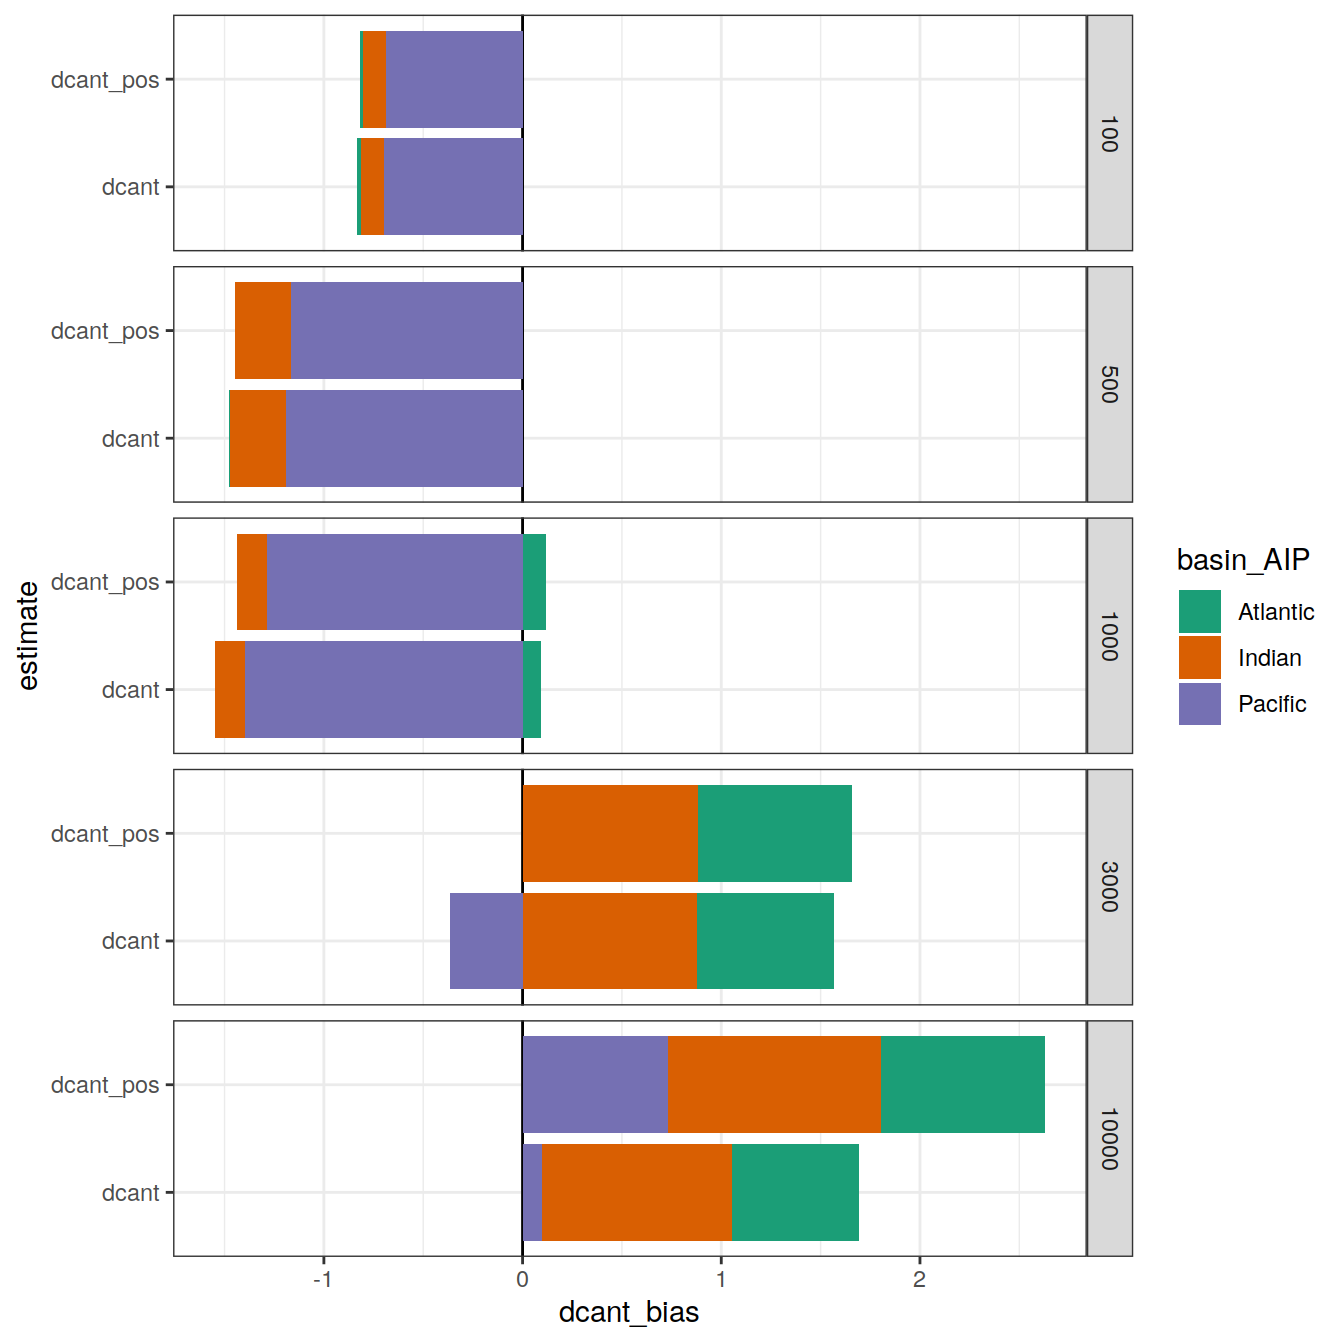
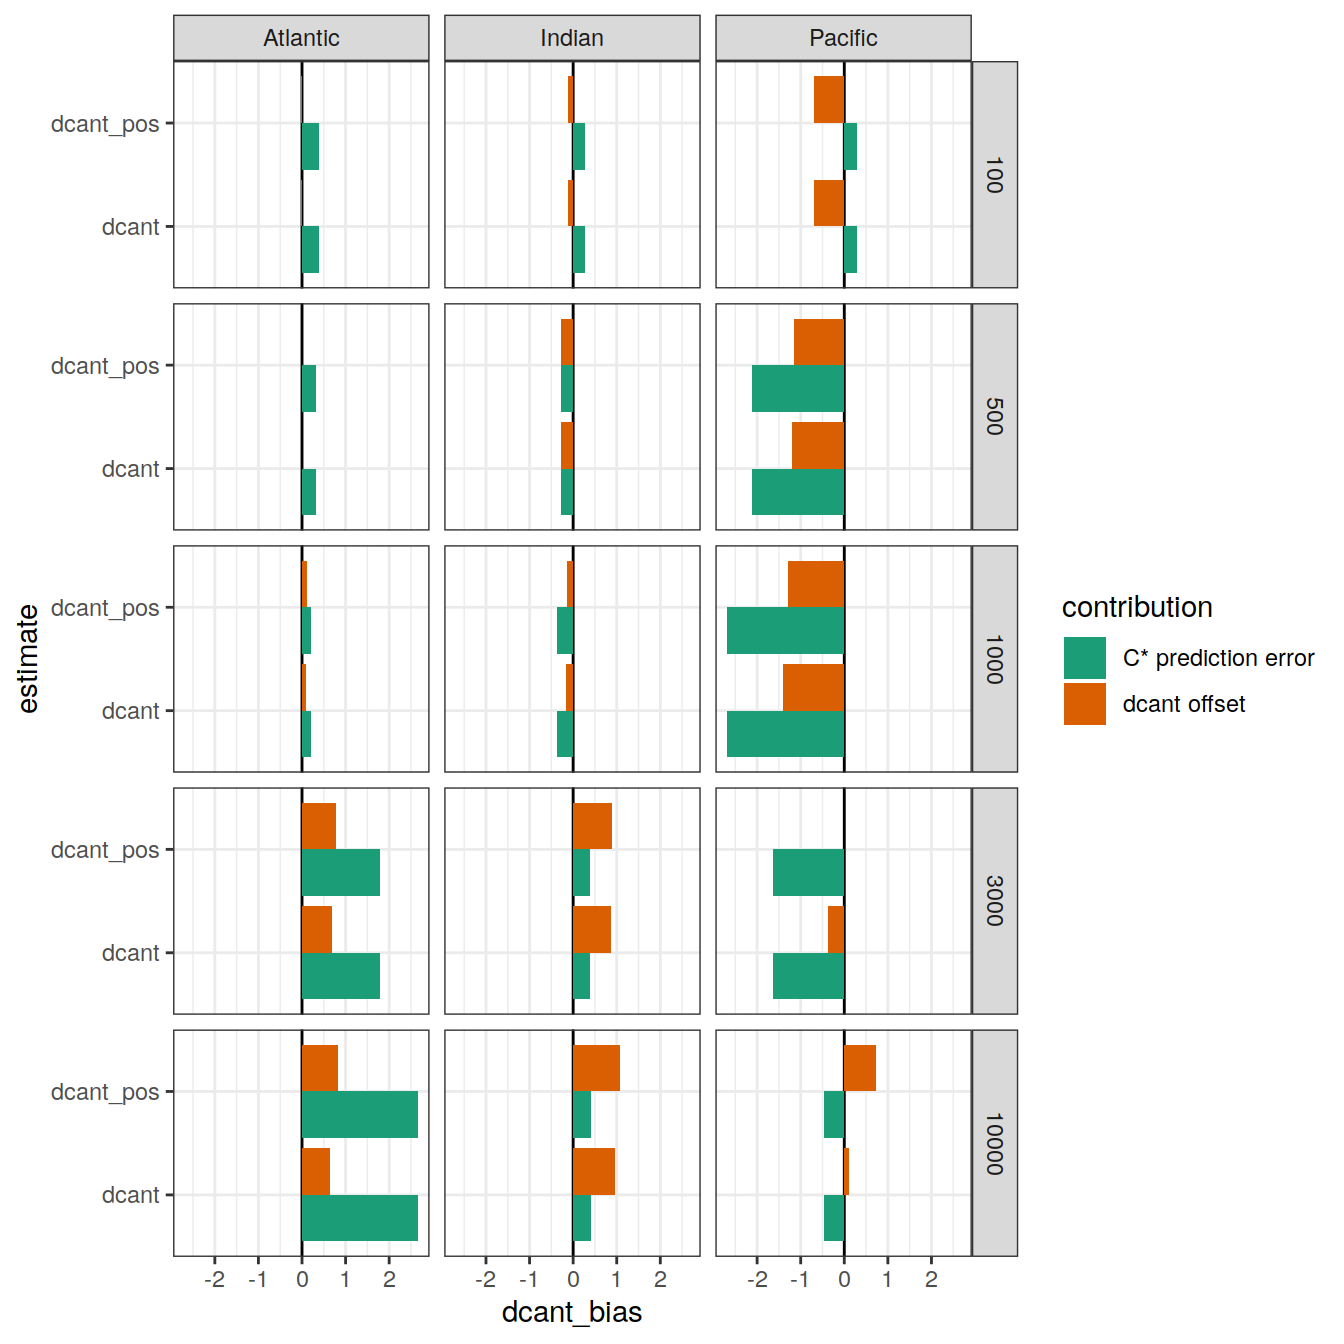
Build site.

diff --git a/docs/analysis_budgets.html b/docs/analysis_budgets.html
@@ -578,16 +578,16 @@ This reproducible <a href="https://rmarkdown.rstudio.com">R Markdown</a> analysi
 <div class="panel panel-default">
 <div class="panel-heading">
 <p class="panel-title">
-<a data-toggle="collapse" data-parent="#workflowr-checks" href="#strongRepositoryversionstrongahrefhttpsgithubcomjensdanielmuelleremlrobsvXXXtree625c566a0e808f3cc5a9f91f0a092ceb0153649atargetblank625c566a"> <span class="glyphicon glyphicon-ok text-success" aria-hidden="true"></span> <strong>Repository version:</strong> <a href="https://github.com/jens-daniel-mueller/emlr_obs_v_XXX/tree/625c566a0e808f3cc5a9f91f0a092ceb0153649a" target="_blank">625c566</a> </a>
+<a data-toggle="collapse" data-parent="#workflowr-checks" href="#strongRepositoryversionstrongahrefhttpsgithubcomjensdanielmuelleremlrobsvXXXtree1f7f56b723766f82a9b5400e0a2c74c476330048targetblank1f7f56ba"> <span class="glyphicon glyphicon-ok text-success" aria-hidden="true"></span> <strong>Repository version:</strong> <a href="https://github.com/jens-daniel-mueller/emlr_obs_v_XXX/tree/1f7f56b723766f82a9b5400e0a2c74c476330048" target="_blank">1f7f56b</a> </a>
 </p>
 </div>
[2 lines of base64/hex data omitted]
 <div class="panel-body">
 <p>
 Great! You are using Git for version control. Tracking code development and connecting the code version to the results is critical for reproducibility.
 </p>
 <p>
-The results in this page were generated with repository version <a href="https://github.com/jens-daniel-mueller/emlr_obs_v_XXX/tree/625c566a0e808f3cc5a9f91f0a092ceb0153649a" target="_blank">625c566</a>. See the <em>Past versions</em> tab to see a history of the changes made to the R Markdown and HTML files.
+The results in this page were generated with repository version <a href="https://github.com/jens-daniel-mueller/emlr_obs_v_XXX/tree/1f7f56b723766f82a9b5400e0a2c74c476330048" target="_blank">1f7f56b</a>. See the <em>Past versions</em> tab to see a history of the changes made to the R Markdown and HTML files.
 </p>
 <p>
 Note that you need to be careful to ensure that all relevant files for the analysis have been committed to Git prior to generating the results (you can use <code>wflow_publish</code> or <code>wflow_git_commit</code>). workflowr only checks the R Markdown file, but you know if there are other scripts or data files that it depends on. Below is the status of the Git repository when the results were generated:
@@ -596,7 +596,6 @@ Note that you need to be careful to ensure that all relevant files for the analy
 Ignored files:
     Ignored:    .Rhistory
     Ignored:    .Rproj.user/
-    Ignored:    analysis/figure/
 
 </code></pre>
 <p>
@@ -635,6 +634,40 @@ Message
 </tr>
 </thead>
 <tbody>
+<tr>
+<td>
+Rmd
+</td>
+<td>
+<a href="https://github.com/jens-daniel-mueller/emlr_obs_v_XXX/blob/1f7f56b723766f82a9b5400e0a2c74c476330048/analysis/analysis_budgets.Rmd" target="_blank">1f7f56b</a>
+</td>
+<td>
+jens-daniel-mueller
+</td>
+<td>
+2022-06-23
+</td>
+<td>
+budget bias decomposition
+</td>
+</tr>
+<tr>
+<td>
+html
+</td>
+<td>
+<a href="https://rawcdn.githack.com/jens-daniel-mueller/emlr_obs_v_XXX/3cc3afcbcadb240f7eea4e47a9c61422fcb112da/docs/analysis_budgets.html" target="_blank">3cc3afc</a>
+</td>
+<td>
+jens-daniel-mueller
+</td>
+<td>
+2022-06-23
+</td>
+<td>
+Build site.
+</td>
+</tr>
 <tr>
 <td>
 Rmd
@@ -4177,9 +4210,9 @@ dcant_budget_basin_AIP_mod_truth &lt;-
 dcant_budget_basin_AIP &lt;- bind_rows(dcant_budget_basin_AIP,
                                     dcant_budget_basin_AIP_mod_truth)
 
-# target_budget_basin_AIP &lt;-
-#   read_csv(paste(path_version_data,
-#                   &quot;target_budget_basin_AIP.csv&quot;, sep = &quot;&quot;))
+target_budget_basin_AIP &lt;-
+  read_csv(paste(path_version_data,
+                  &quot;target_budget_basin_AIP.csv&quot;, sep = &quot;&quot;))
 
 rm(dcant_budget_basin_AIP_mod_truth)
 
@@ -6012,6 +6045,17 @@ Date
 <tbody>
 <tr>
 <td>
+<a href="https://github.com/jens-daniel-mueller/emlr_obs_v_XXX/blob/3cc3afcbcadb240f7eea4e47a9c61422fcb112da/docs/figure/analysis_budgets.Rmd/dcant_budget_standard_depth_global-2.png" target="_blank">3cc3afc</a>
+</td>
+<td>
+jens-daniel-mueller
+</td>
+<td>
+2022-06-23
+</td>
+</tr>
+<tr>
+<td>
 <a href="https://github.com/jens-daniel-mueller/emlr_obs_v_XXX/blob/a28c3f7028bd977f65cc8549388c9c75f9bf4a70/docs/figure/analysis_budgets.Rmd/dcant_budget_standard_depth_global-2.png" target="_blank">a28c3f7</a>
 </td>
 <td>
@@ -7165,6 +7209,17 @@ Date
 </tr>
 </thead>
 <tbody>
+<tr>
+<td>
+<a href="https://github.com/jens-daniel-mueller/emlr_obs_v_XXX/blob/3cc3afcbcadb240f7eea4e47a9c61422fcb112da/docs/figure/analysis_budgets.Rmd/dcant_budget_standard_depth_global-3.png" target="_blank">3cc3afc</a>
+</td>
+<td>
+jens-daniel-mueller
+</td>
+<td>
+2022-06-23
+</td>
+</tr>
 <tr>
 <td>
 <a href="https://github.com/jens-daniel-mueller/emlr_obs_v_XXX/blob/a28c3f7028bd977f65cc8549388c9c75f9bf4a70/docs/figure/analysis_budgets.Rmd/dcant_budget_standard_depth_global-3.png" target="_blank">a28c3f7</a>
@@ -9490,6 +9545,17 @@ Date
 <tbody>
 <tr>
 <td>
+<a href="https://github.com/jens-daniel-mueller/emlr_obs_v_XXX/blob/3cc3afcbcadb240f7eea4e47a9c61422fcb112da/docs/figure/analysis_budgets.Rmd/cant_budget_other_depth_global-1.png" target="_blank">3cc3afc</a>
+</td>
+<td>
+jens-daniel-mueller
+</td>
+<td>
+2022-06-23
+</td>
+</tr>
+<tr>
+<td>
 <a href="https://github.com/jens-daniel-mueller/emlr_obs_v_XXX/blob/a28c3f7028bd977f65cc8549388c9c75f9bf4a70/docs/figure/analysis_budgets.Rmd/cant_budget_other_depth_global-1.png" target="_blank">a28c3f7</a>
 </td>
 <td>
@@ -11346,6 +11412,17 @@ Date
 </tr>
 </thead>
 <tbody>
+<tr>
+<td>
+<a href="https://github.com/jens-daniel-mueller/emlr_obs_v_XXX/blob/3cc3afcbcadb240f7eea4e47a9c61422fcb112da/docs/figure/analysis_budgets.Rmd/cant_budget_other_depth_global-2.png" target="_blank">3cc3afc</a>
+</td>
+<td>
+jens-daniel-mueller
+</td>
+<td>
+2022-06-23
+</td>
+</tr>
 <tr>
 <td>
 <a href="https://github.com/jens-daniel-mueller/emlr_obs_v_XXX/blob/a28c3f7028bd977f65cc8549388c9c75f9bf4a70/docs/figure/analysis_budgets.Rmd/cant_budget_other_depth_global-2.png" target="_blank">a28c3f7</a>
@@ -16550,12 +16627,24 @@ jens-daniel-mueller
   mutate(dcant_bias = mod - mod_truth,
          dcant_bias_rel = dcant_bias / mod_truth * 100)
 
+dcant_budget_basin_AIP_bias &lt;-
+  bind_rows(
+    target_budget_basin_AIP %&gt;%
+      rename(dcant_bias = value) %&gt;%
+      mutate(contribution = &quot;C* prediction error&quot;) %&gt;%
+      select(-data_source),
+    dcant_budget_basin_AIP_bias %&gt;%
+      mutate(contribution = &quot;dcant offset&quot;)
+  )
+
+
 dcant_budget_basin_AIP_bias %&gt;% 
   filter(inv_depth == params_global$inventory_depth_standard) %&gt;% 
-  ggplot(aes(dcant_bias, estimate, fill=basin_AIP)) +
-  geom_vline(xintercept = 0) +
-  geom_col() +
-  scale_fill_brewer(palette = &quot;Dark2&quot;)</code></pre>
+  ggplot(aes(estimate, dcant_bias, fill=contribution)) +
+  geom_hline(yintercept = 0) +
+  geom_col(position = &quot;dodge&quot;) +
+  scale_fill_brewer(palette = &quot;Dark2&quot;) +
+  facet_grid(.~ basin_AIP)</code></pre>
 <p><img src="figure/analysis_budgets.Rmd/dcant_budget_standard_depth_basin_AIP-2.png" width="672" style="display: block; margin: auto;" /></p>
 <p>
 <button type="button" class="btn btn-default btn-xs btn-workflowr btn-workflowr-fig" data-toggle="collapse" data-target="#fig-dcant_budget_standard_depth_basin_AIP-2">
@@ -17706,7 +17795,8 @@ jens-daniel-mueller
 </div>
 </div>
 <pre class="r"><code>dcant_budget_basin_AIP_bias %&gt;% 
-  filter(inv_depth == params_global$inventory_depth_standard) %&gt;% 
+  filter(inv_depth == params_global$inventory_depth_standard,
+         !is.na(dcant_bias_rel)) %&gt;% 
   ggplot(aes(dcant_bias_rel, estimate, fill=basin_AIP)) +
   geom_vline(xintercept = 0) +
   geom_col(position = &quot;dodge&quot;) +
@@ -20813,11 +20903,11 @@ jens-daniel-mueller
 </table>
 </div>
 <pre class="r"><code>dcant_budget_basin_AIP_bias %&gt;% 
-  ggplot(aes(dcant_bias, estimate, fill=basin_AIP)) +
+  ggplot(aes(dcant_bias, estimate, fill=contribution)) +
   geom_vline(xintercept = 0) +
-  geom_col() +
+  geom_col(position = &quot;dodge&quot;) +
   scale_fill_brewer(palette = &quot;Dark2&quot;) +
-  facet_grid(inv_depth ~ .)</code></pre>
+  facet_grid(inv_depth ~ basin_AIP)</code></pre>
 <p><img src="figure/analysis_budgets.Rmd/cant_budget_other_depth_basin_AIP-2.png" width="672" style="display: block; margin: auto;" /></p>
 <p>
 <button type="button" class="btn btn-default btn-xs btn-workflowr btn-workflowr-fig" data-toggle="collapse" data-target="#fig-cant_budget_other_depth_basin_AIP-2">
